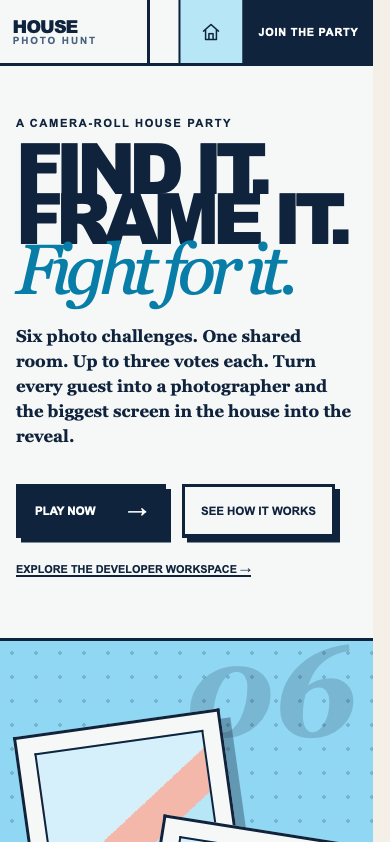
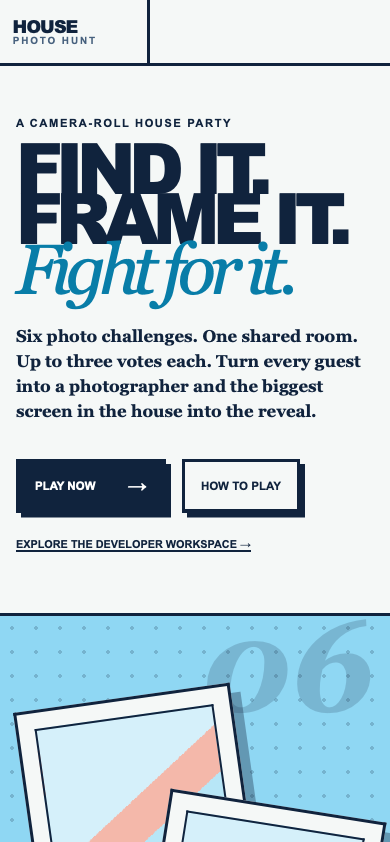
Simplify landing page header

Changed region(s): [[0.0, 0.3705, 1.0, 1.0], [0.4308, 0.0, 1.0, 0.0926]]

diff --git a/src/landing.css b/src/landing.css
@@ -20,13 +20,6 @@ a:focus-visible { outline: 3px solid white; outline-offset: 2px; box-shadow: 0 0
 .landing-brand { display: flex; width: 210px; flex-direction: column; justify-content: center; border-right: var(--line); padding: .8rem 1.2rem; text-decoration: none; }
 .landing-brand b { font: 900 1.5rem/1 Arial Black, Arial, sans-serif; letter-spacing: -.05em; }
 .landing-brand span { color: #47617e; font-size: .62rem; font-weight: 900; letter-spacing: .19em; }
-.landing-nav nav { display: flex; align-items: stretch; }
-.landing-nav nav a { display: grid; place-items: center; border-left: 2px solid var(--ink); padding: 0 1.3rem; font-size: .68rem; font-weight: 900; letter-spacing: .07em; text-decoration: none; text-transform: uppercase; }
-.landing-nav nav a:hover { background: var(--pool); }
-.landing-nav .landing-nav__home { width: 64px; padding: 0; background: var(--pool); }
-.landing-nav__home .home-icon { width: 20px; height: 20px; fill: none; stroke: currentColor; stroke-width: 1.8; stroke-linecap: round; stroke-linejoin: round; }
-.landing-nav .landing-nav__play { color: white; background: var(--ink); }
-.landing-nav .landing-nav__play:hover { color: var(--ink); background: var(--sky); }
 .landing-hero { display: grid; min-height: calc(100vh - 78px); grid-template-columns: minmax(0, 1.15fr) minmax(380px, .85fr); }
 .landing-hero__copy { display: flex; flex-direction: column; justify-content: center; padding: clamp(2.2rem, 6vw, 7rem); }
 .landing-kicker { font-size: .7rem; font-weight: 900; letter-spacing: .14em; text-transform: uppercase; }
@@ -68,9 +61,6 @@ a:focus-visible { outline: 3px solid white; outline-offset: 2px; box-shadow: 0 0
   .landing-nav { min-height: 66px; }
   .landing-brand { width: 150px; padding-inline: .8rem; }
   .landing-brand b { font-size: 1.1rem; }
-  .landing-nav nav a { display: none; }
-  .landing-nav nav :is(.landing-nav__home, .landing-nav__play) { display: grid; }
-  .landing-nav nav .landing-nav__play { padding-inline: .9rem; }
   .landing-hero { min-height: auto; grid-template-columns: 1fr; }
   .landing-hero__copy { padding: 3.2rem 1rem 3.8rem; }
   .landing-hero h1 { font-size: clamp(3.6rem, 18vw, 6rem); }

diff --git a/src/landing.tsx b/src/landing.tsx
@@ -1,6 +1,5 @@
 import { StrictMode } from 'react'
 import { createRoot } from 'react-dom/client'
-import { HomeIcon } from './components/HomeIcon'
 import './landing.css'
 
 const appRoot = import.meta.env.BASE_URL
@@ -11,12 +10,6 @@ export function LandingPage() {
     <div className="landing-page">
       <header className="landing-nav">
         <a className="landing-brand" href={appRoot}><b>HOUSE</b><span>PHOTO HUNT</span></a>
-        <nav aria-label="Landing navigation">
-          <a className="landing-nav__home" href={appRoot} aria-label="Home" aria-current="page"><HomeIcon /></a>
-          <a href={`${playUrl}?tutorial`}>How to play</a>
-          <a href={`${appRoot}developer/github-progress/`}>Developer</a>
-          <a className="landing-nav__play" href={playUrl}>Join the party</a>
-        </nav>
       </header>
 
       <main>
@@ -27,7 +20,7 @@ export function LandingPage() {
             <p>Six photo challenges. One shared room. Three votes each. Turn every guest into a photographer and the biggest screen in the house into the reveal.</p>
             <div className="landing-actions">
               <a className="landing-button landing-button--primary" href={playUrl}>Play now <span>→</span></a>
-              <a className="landing-button" href={`${playUrl}?tutorial`}>See how it works</a>
+              <a className="landing-button" href={`${playUrl}?tutorial`}>How to play</a>
             </div>
             <a className="landing-developer-link" href={`${appRoot}developer/github-progress/`}>Explore the developer workspace →</a>
           </div>
